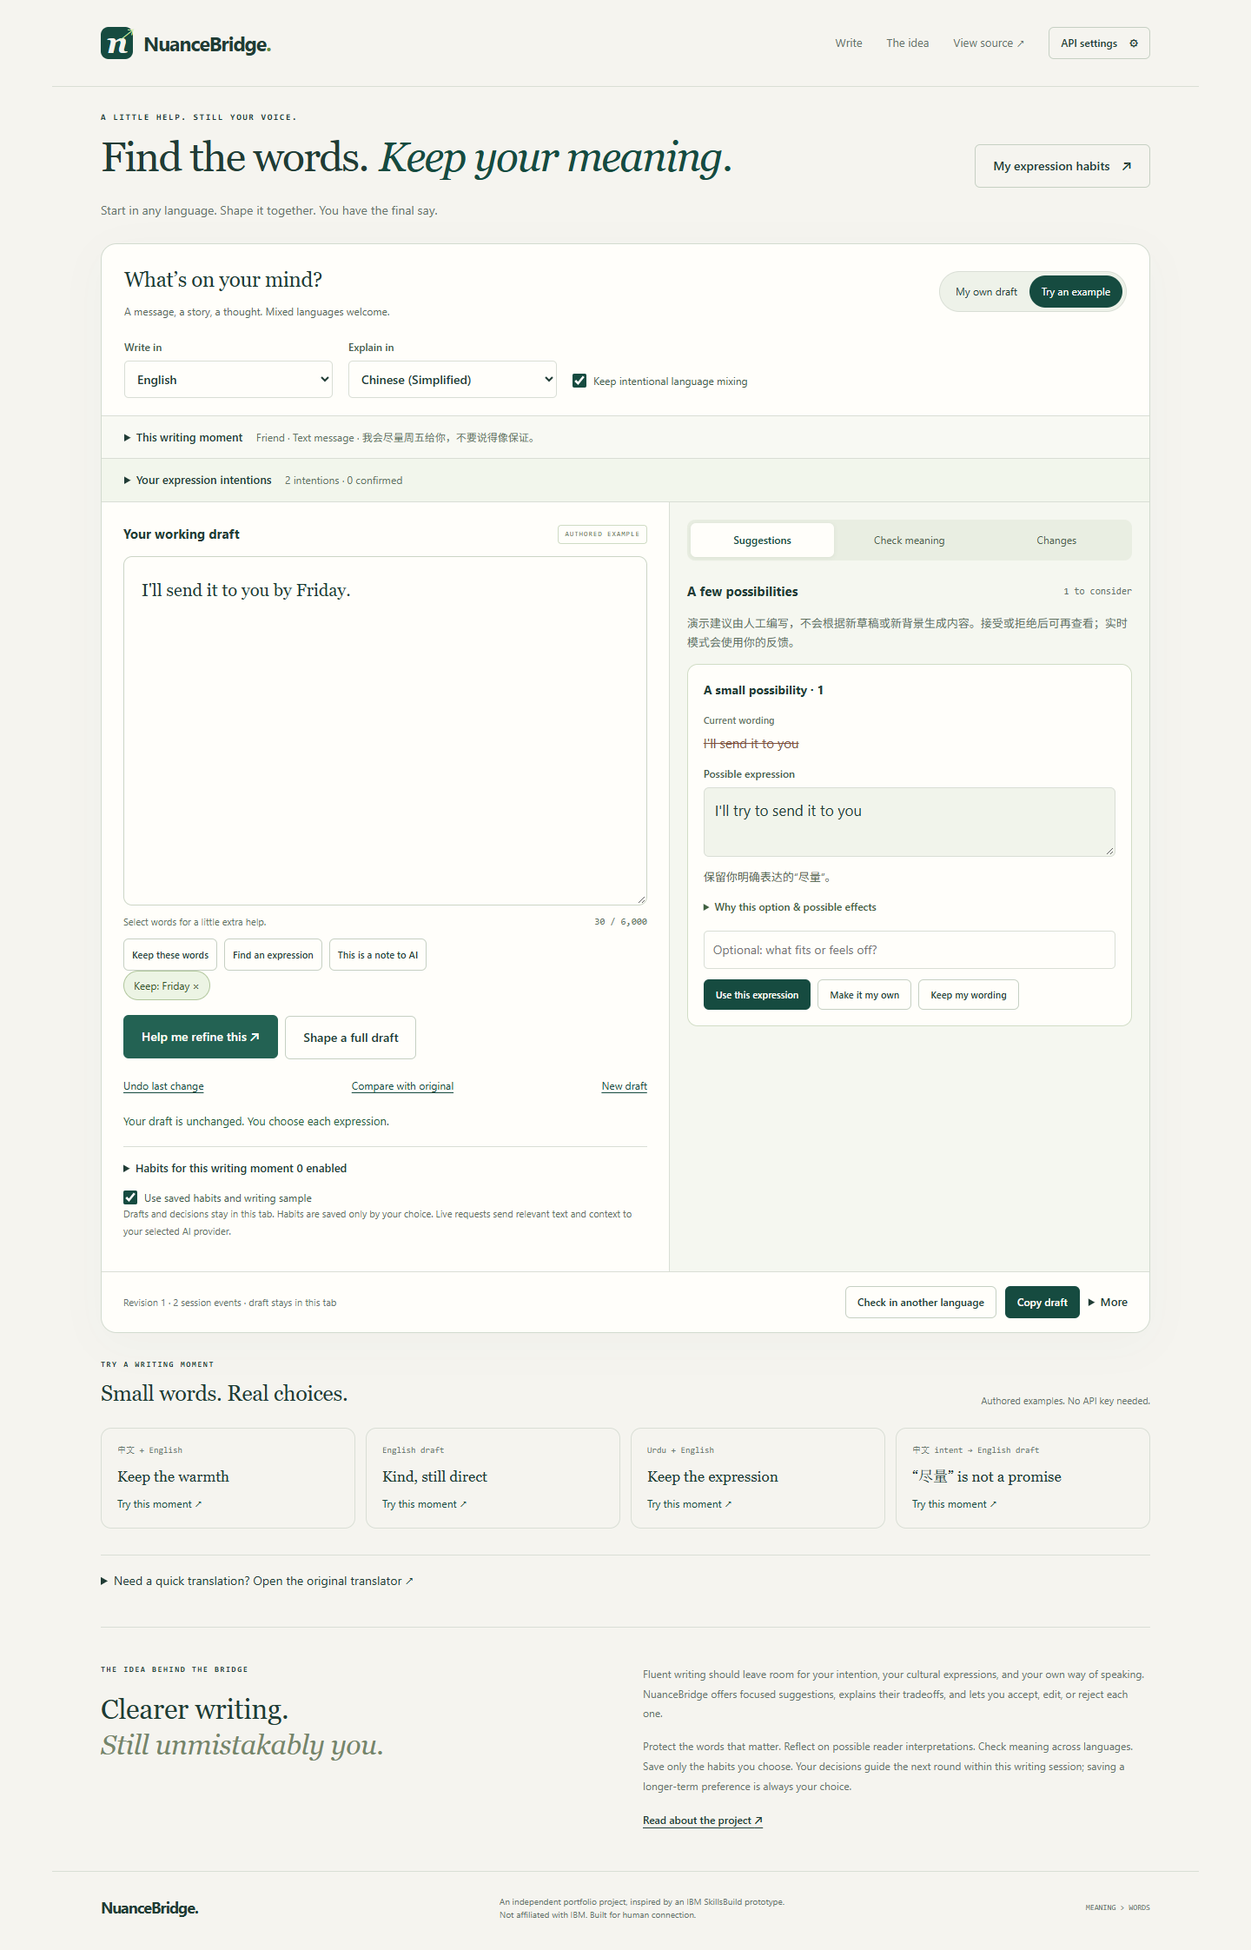
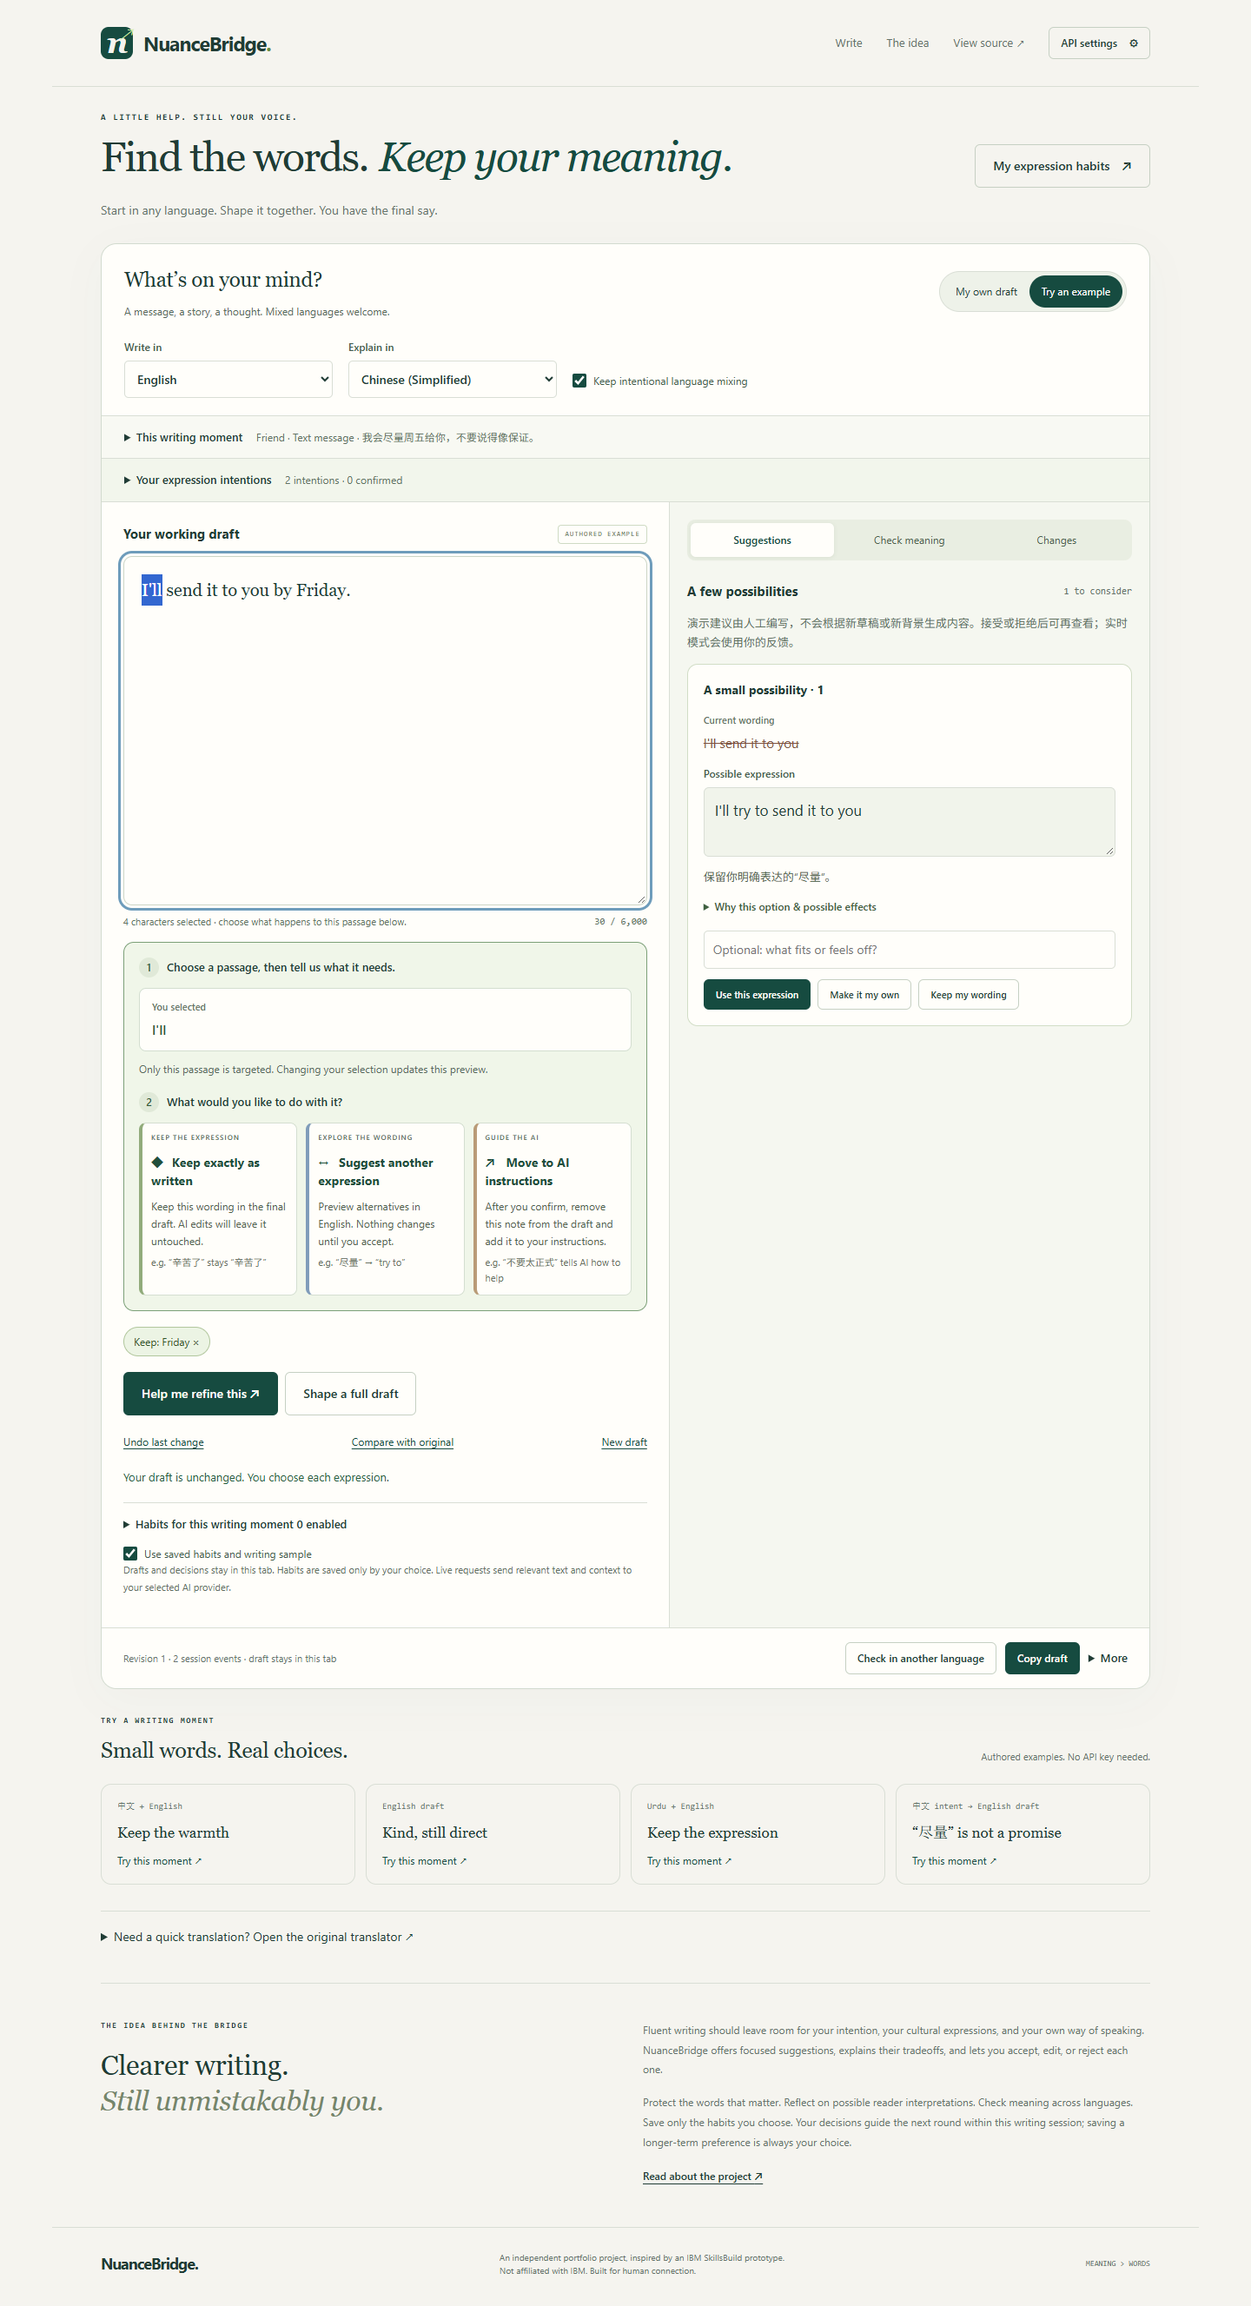
feat: clarify selected passage actions

diff --git a/writing-ui.js b/writing-ui.js
@@ -7,6 +7,7 @@ import { initIntentPanel } from './intent-ui.js';
 import { addEvent, makeSnapshot, snapshotCurrent } from './workflow-state.js';
 import { initWritingVoice } from './writing-voice.js';
 import { renderOptions, renderEvents } from './writing-panels.js';
+import { renderSelection } from './selection-ui.js';
 
 export function initWriting({ getConnection, notify }) {
   let session = createSession(), demo = false, sample = null, suggestions = [], selection = null;
@@ -19,6 +20,7 @@ export function initWriting({ getConnection, notify }) {
     actionIds.forEach(id => { $(id).disabled = value; });
     $('writing-cancel').hidden = !value; $('suggestions-panel').setAttribute('aria-busy', String(value));
     if (!value && memory && intents) refreshSnapshot();
+    if (memory && intents) renderSelection(session, selection, $('writing-target').value, value);
   }
   function cancel() { epoch++; controller?.abort(); controller = null; busy(false); }
   const context = () => ({ recipient: $('writing-recipient').value, channel: $('writing-channel').value, target: $('writing-target').value });
@@ -49,6 +51,7 @@ export function initWriting({ getConnection, notify }) {
   function invalidate() {
     cancel(); suggestions = []; preview = null; candidate = null; $('memory-nudge').hidden = true;
     $('reflection-result').replaceChildren(); $('writing-status').textContent = '';
+    $('selection-feedback').textContent = '';
     $('habit-conflicts').replaceChildren();
     $('suggestion-summary').textContent = 'Ready when you are. Ask for fresh suggestions after a change.';
     fail(); renderSuggestions(); memory.refresh(); refreshSnapshot(); updateContext(); $('use-writing-habits').checked = voice.get().enabled;
@@ -67,7 +70,7 @@ export function initWriting({ getConnection, notify }) {
     for (const [index, span] of session.protected.entries()) $('protected-phrases').append(button(`Keep: ${span.text} ×`, () => {
       session = unprotectSpan(session, index); log({ kind: 'protection-removed', note: span.text }); selection = null; invalidate(); updateSession();
     }, 'protected-chip'));
-    $('writing-selection').textContent = selection ? `${selection.end - selection.start} characters selected.` : 'Select words for a little extra help.';
+    renderSelection(session, selection, $('writing-target').value, Boolean(controller));
     $('session-feedback').replaceChildren();
     if (session.feedback.length) $('session-feedback').append(make('p', `Latest feedback: ${session.feedback.at(-1).reason || session.feedback.at(-1).action}. Session only.`));
     memory.refresh(); refreshSnapshot(); updateContext();
@@ -186,12 +189,20 @@ export function initWriting({ getConnection, notify }) {
   });
   $('writing-draft').addEventListener('select', () => {
     const { selectionStart: start, selectionEnd: end } = $('writing-draft'); const previous = selection; selection = start < end ? { start, end } : null;
-    $('writing-selection').textContent = selection ? `${end - start} characters selected.` : 'Select words for a little extra help.';
+    if (previous?.start !== selection?.start || previous?.end !== selection?.end) $('selection-feedback').textContent = '';
+    renderSelection(session, selection, $('writing-target').value, Boolean(controller));
     if ($('writing-scope').value === 'selection' && (previous?.start !== selection?.start || previous?.end !== selection?.end)) invalidate();
   });
   $('writing-draft').addEventListener('keydown', e => { if ((e.ctrlKey || e.metaKey) && e.key === 'Enter' && !controller) { e.preventDefault(); run('analyze'); } });
   $('protect-selection').addEventListener('click', () => {
-    try { if (!selection) throw new Error('Select the words you want to keep first.'); session = protectSpan(session, selection.start, selection.end); log({ kind: 'protected', note: session.text.slice(selection.start, selection.end) }); selection = null; invalidate(); updateSession(); }
+    try {
+      if (!selection) throw new Error('Select the words you want to keep first.');
+      const text = session.text.slice(selection.start, selection.end), end = selection.end;
+      session = protectSpan(session, selection.start, selection.end); log({ kind: 'protected', note: text });
+      selection = null; $('writing-draft').setSelectionRange(end, end); invalidate(); updateSession();
+      $('selection-feedback').textContent = `Kept exactly: “${text}”. Remove its protection chip to change it, or use Undo last change.`;
+      $('writing-draft').focus();
+    }
     catch (error) { fail(error.message); }
   });
   $('express-selection').addEventListener('click', () => { if (!selection) { fail('Select the words you want help expressing.'); return; } $('writing-scope').value = 'selection'; run('analyze'); });
@@ -207,6 +218,7 @@ export function initWriting({ getConnection, notify }) {
       session = { ...session, history: [...session.history.slice(0, -1), { ...session.history.at(-1), movedInstruction: { before: previousIntent, after: note } }] };
       $('writing-intent').value = note;
       log({ kind: 'instruction-moved', before: text, note: 'Moved to task instructions by the writer; omitted from final draft.' }); selection = null; invalidate(); updateSession(); $('context-panel').open = true;
+      $('selection-feedback').textContent = `Moved to “What do you want to convey?”: “${text}”. It is no longer in the final draft. Undo last change restores it.`;
     } catch (error) { fail(error.message); }
   });
   $('writing-undo').addEventListener('click', () => {

diff --git a/index.html b/index.html
@@ -38,7 +38,17 @@
         <div class="writing-section-heading"><h3>Your working draft</h3><span id="writing-badge" class="badge">YOUR DRAFT</span></div>
         <label class="sr-only" for="writing-draft">Your working draft</label><textarea id="writing-draft" maxlength="6000" rows="10" dir="auto" placeholder="先写下你想说的。English, 中文, or a little of both…"></textarea>
         <div class="draft-meta"><span id="writing-selection">Select words for a little extra help.</span><span id="writing-count" class="mono">0 / 6,000</span></div>
-        <div class="draft-toolbar" role="group" aria-label="Selected text actions"><button id="protect-selection" class="button small outline">Keep these words</button><button id="express-selection" class="button small outline">Find an expression</button><button id="instruction-selection" class="button small outline">This is a note to AI</button></div>
+        <section id="selection-workbench" class="selection-workbench" aria-labelledby="selection-title">
+          <div class="selection-heading"><span class="selection-step" aria-hidden="true">1</span><h4 id="selection-title">Choose a passage, then tell us what it needs.</h4></div>
+          <div class="selection-preview"><span id="selection-caption" class="field-label">Start here</span><blockquote id="selected-passage" dir="auto">Select a word or sentence in your draft above.</blockquote></div>
+          <p id="selection-guidance" class="help">Highlight text above to get started.</p>
+          <div class="selection-heading"><span class="selection-step" aria-hidden="true">2</span><p>What would you like to do with it?</p></div>
+          <div class="selection-actions" role="group" aria-label="Selected text actions">
+            <div class="selection-action preserve-action"><span class="action-category">KEEP THE EXPRESSION</span><button id="protect-selection" type="button" aria-describedby="protect-outcome" disabled><span aria-hidden="true">◆</span> Keep exactly as written</button><p id="protect-outcome">Keep this wording in the final draft. AI edits will leave it untouched.</p><span class="action-example">e.g. “辛苦了” stays “辛苦了”</span></div>
+            <div class="selection-action express-action"><span class="action-category">EXPLORE THE WORDING</span><button id="express-selection" type="button" aria-describedby="expression-destination" disabled><span aria-hidden="true">↔</span> Suggest another expression</button><p id="expression-destination">Preview alternatives in your writing language. You choose whether to use one.</p><span class="action-example">e.g. “尽量” → “try to”</span></div>
+            <div class="selection-action instruction-action"><span class="action-category">GUIDE THE AI</span><button id="instruction-selection" type="button" aria-describedby="instruction-outcome" disabled><span aria-hidden="true">↗</span> Move to AI instructions</button><p id="instruction-outcome">After you confirm, remove this note from the draft and add it to your instructions.</p><span class="action-example">e.g. “不要太正式” tells AI how to help</span></div>
+          </div><p id="selection-feedback" class="selection-feedback" role="status" aria-live="polite"></p>
+        </section>
         <div id="protected-phrases" class="protected-phrases" aria-label="Protected expressions"></div>
         <div class="writing-primary-actions"><button id="analyze-writing" class="button primary">Help me refine this ↗</button><button id="starting-draft" class="button outline">Shape a full draft</button><button id="writing-cancel" class="button outline" hidden>Cancel</button><button id="open-companion" class="button outline mobile-only">View companion</button></div>
         <div class="draft-secondary"><button id="writing-undo" class="text-button">Undo last change</button><button id="show-original" class="text-button">Compare with original</button><button id="new-writing-session" class="text-button">New draft</button></div>

diff --git a/writing.css b/writing.css
@@ -14,3 +14,5 @@ button,input,select,textarea,summary{touch-action:manipulation}button:focus-visi
 .mobile-only{display:none}@media(max-width:750px){.mobile-only{display:block}.suggestions-column{display:none}.suggestions-column.is-open{display:block;position:fixed;z-index:25;bottom:0;left:10px;right:10px;max-height:74dvh;overflow-y:auto;border:1px solid #b7c7ab;border-radius:18px 18px 0 0;box-shadow:0 -14px 70px #203c3530;padding:14px 18px 25px;overscroll-behavior:contain}#close-companion{margin-bottom:10px}.suggestions-column .panel-switch{position:sticky;top:0;z-index:1}}
 .conflict-card{padding:14px;background:#fff4de;border:1px solid #dec898;border-radius:8px;margin:12px 0;font-size:12px;line-height:1.7}.conflict-card p{margin:6px 0;overflow-wrap:anywhere}
 @media(max-width:750px){.writing-workspace button,.protected-chip{min-height:44px}.writing-workspace select,.writing-workspace input:not([type=checkbox]){min-height:44px}.writing-workspace .text-button{padding:8px 0}}
+/* Make the consequences of each selected-passage action visible before acting. */
+.selection-workbench{margin:14px 0 18px;border:1px solid #d3ded0;border-radius:12px;background:#f7f9f3;padding:17px;transition:border-color .15s,background .15s}.selection-workbench.has-selection{border-color:#7ca078;background:#f0f6e9}.selection-heading{display:flex;align-items:center;gap:9px;margin:0 0 12px}.selection-heading h4,.selection-heading p{font-size:13px;line-height:1.6;margin:0;font-weight:600}.selection-step{display:inline-flex;align-items:center;justify-content:center;width:23px;height:23px;border-radius:50%;background:#e0e9d8;color:#345b38;font-size:12px;font-weight:600;flex-shrink:0}.selection-preview{padding:12px 14px;border:1px solid #d3ded0;border-radius:8px;background:var(--white)}#selected-passage{font-size:15px;line-height:1.65;margin:6px 0 0;white-space:pre-wrap;overflow-wrap:anywhere;max-height:125px;overflow-y:auto}.has-selection #selected-passage{font-weight:600;color:#245435}#selection-guidance{margin:10px 0 16px}.selection-actions{display:grid;gap:10px}.selection-action{border:1px solid #d4ded0;border-left:4px solid #91ab7b;border-radius:8px;background:var(--white);padding:12px}.selection-action.express-action{border-left-color:#809cba}.selection-action.instruction-action{border-left-color:#b99b77}.action-category{display:block;font-size:9px;letter-spacing:1px;color:#60705c;font-weight:600;margin-bottom:5px}.selection-action button{display:block;width:100%;text-align:left;background:transparent;border:0;color:#214f3c;padding:4px 0;font-size:14px;font-weight:650;line-height:1.5;min-height:38px}.selection-action button span{display:inline-block;min-width:20px}.selection-action button:not(:disabled):hover{text-decoration:underline;text-underline-offset:4px}.selection-action button:disabled{color:#6d756a;opacity:.7}.selection-action p{font-size:12px;line-height:1.65;color:#52634f;margin:4px 0}.action-example{display:block;font-size:11px;line-height:1.6;color:#697163;margin-top:6px}.selection-feedback{font-size:13px;line-height:1.7;color:#275b3c;margin:12px 0 0;overflow-wrap:anywhere}.selection-feedback:empty{display:none}@media(min-width:1200px){.selection-actions{grid-template-columns:repeat(3,minmax(0,1fr))}.selection-action{padding:10px}.selection-action button{min-height:55px}.action-category{font-size:8px}}@media(max-width:750px){.selection-workbench{padding:13px}.selection-action{padding:10px 12px}.selection-heading h4,.selection-heading p{font-size:13px}.selection-action button{min-height:44px!important;padding:6px 0}.selection-action p{margin:0}.selection-preview{padding:10px}}

diff --git a/selection-ui.js b/selection-ui.js
@@ -1,0 +1,19 @@
+import { $, make } from './ui-helpers.js';
+
+// This is a display of the actual textarea range, never an inferred selection.
+export function renderSelection(session, selection, target, busy = false) {
+  const selected = selection ? session.text.slice(selection.start, selection.end) : '';
+  const overlap = selection && session.protected.some(span => selection.start < span.end && selection.end > span.start);
+  $('selection-workbench').classList.toggle('has-selection', Boolean(selected));
+  $('selected-passage').replaceChildren(make('span', selected || 'Select a word or sentence in your draft above.'));
+  $('selection-caption').textContent = selected ? 'You selected' : 'Start here';
+  $('writing-selection').textContent = selected ? `${selection.end - selection.start} characters selected · choose what happens to this passage below.` : 'Highlight a word or sentence above, then choose an action below.';
+  $('selection-guidance').textContent = overlap
+    ? 'This selection includes protected words. Remove their protection chip before protecting it again or moving it to instructions. Wording suggestions cannot change protected words.'
+    : selected ? 'Only this passage is targeted. Changing your selection updates this preview.'
+      : 'Drag over text, or use Shift + arrow keys. These actions become available when you select a passage.';
+  $('protect-selection').disabled = !selected || Boolean(overlap);
+  $('express-selection').disabled = !selected || busy;
+  $('instruction-selection').disabled = !selected || Boolean(overlap);
+  $('expression-destination').textContent = `Preview alternatives in ${target || 'your writing language'}. Nothing changes until you accept.`;
+}

diff --git a/plan/selection-guidance.md b/plan/selection-guidance.md
@@ -1,0 +1,14 @@
+# Make passage actions understandable
+
+Approved scope: respond to the user's screenshot and paper reference by making the existing three passage operations discoverable and their consequences explicit. Keep the existing protected edit engine and preview/undo workflow.
+
+Research reference: Ramesh et al., Metacognitive Demands and Strategies While Using Off-The-Shelf AI Conversational Agents for Health Information Seeking, CHI 2026, https://arxiv.org/html/2602.05111 . The health-domain study proposes goal scaffolds, action guidance and input transparency; applying these to writing is a design inference, not an effectiveness finding.
+
+Implementation:
+- Show an explicit selected-text preview and empty-state instructions beside the draft.
+- Replace generic adjacent buttons with distinct action cards and visible outcome descriptions.
+- Disable unavailable actions, explain protected selection restrictions, retain selected range when focus moves to controls.
+- Show local success feedback and keep the undo path visible. Focus the draft after protection to make continuing easy.
+- Validate desktop, phone, keyboard selection, protection, scoped suggestions, instruction move and undo; request code review, then push the verified app update.
+
+Verification: 39 unit tests and syntax checks passed. The complete browser suite passed with added empty-selection, exact quote, protected-overlap, instruction outcome, keyboard-range and selected-only request assertions; desktop/mobile screenshots inspected. Fixed a native selection-event timing issue that initially cleared protection feedback. Independent code review approved; its focus-restoration suggestion was incorporated. Existing unrelated PDF remains untouched.

diff --git a/README.md b/README.md
@@ -22,6 +22,8 @@ On phones the companion opens as a dismissible bottom panel, preserving the draf
 
 Select a passage to **keep these words**, **find an expression**, or mark **this is a note to AI**. Moving a note out of the final draft requires confirmation. Undo restores moved notes and their prior task instructions unless those instructions were subsequently edited.
 
+The passage workbench shows the actual selected words above three outcome cards: **Keep exactly as written**, **Suggest another expression**, and **Move to AI instructions**. Descriptions and examples explain what stays in the final text, what needs a preview, and what moves out of it. Unavailable actions are disabled with visible guidance; completed protection and note moves show local feedback and an undo path. This guidance draws on metacognitive-scaffolding considerations from [Ramesh et al., CHI 2026](https://arxiv.org/abs/2602.05111), applied here as a writing-interface design hypothesis rather than a proven outcome.
+
 Protection applies to the selected occurrence, including repeated expressions and Unicode. It is enforced in code for manual edits, local replacements and full starting drafts. Remove a protection chip before changing that expression.
 
 Writing, explanation and checking languages are separate. Writing and checking menus contain 28 choices, including Simplified/Traditional Chinese and Cantonese. An explicit setting allows intentional language mixing; protected expressions always take precedence.
